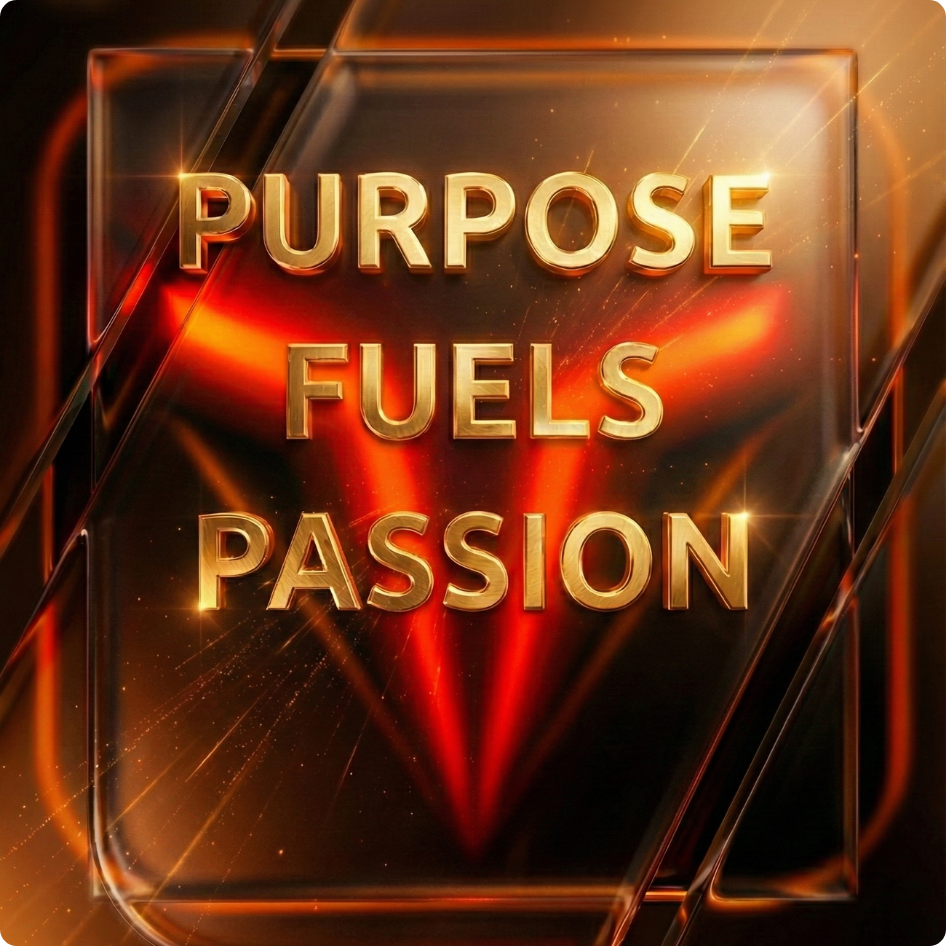
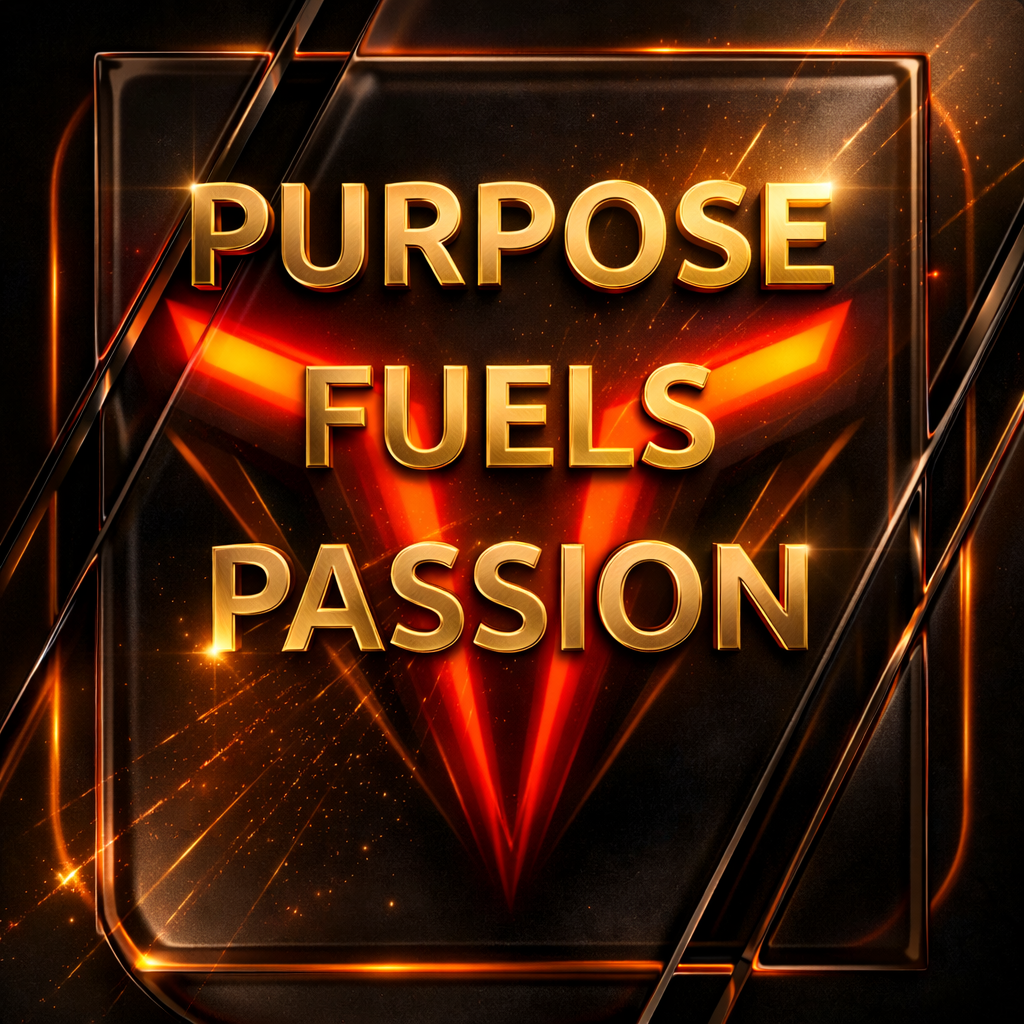
Create link pages for footer links.

diff --git a/src/components/Footer.jsx b/src/components/Footer.jsx
@@ -9,7 +9,6 @@ function Footer() {
           <div className="col-md-3 mb-4">
             <div className="footer-brand">
               <img src="/kalesh_navbar_logo.png" alt="Kalesh Logo" />
-              
             </div>
 
             <button className="coming-soon-btn">Coming Soon</button>
@@ -19,9 +18,15 @@ function Footer() {
           <div className="col-md-3 mb-4">
             <h5 className="footer-title">What We Do</h5>
             <ul className="footer-list">
-              <li>Features</li>
-              <li>Security</li>
-              <li>For Paid Promotion</li>
+              <li>
+                <Link to="/features">Features</Link>
+              </li>
+              <li>
+                <Link to="/security">Security</Link>
+              </li>
+              <li>
+                <Link to="/promotion">For Paid Promotion</Link>
+              </li>
             </ul>
           </div>
 
@@ -29,9 +34,15 @@ function Footer() {
           <div className="col-md-3 mb-4">
             <h5 className="footer-title">Who We Are</h5>
             <ul className="footer-list">
-              <li>About Us</li>
-              <li>Careers</li>
-              <li>Privacy</li>
+              <li>
+                <Link to="/about">About Us</Link>
+              </li>
+              <li>
+                <Link to="/careers">Careers</Link>
+              </li>
+              <li>
+                <Link to="/privacy">Privacy</Link>
+              </li>
             </ul>
           </div>
 
@@ -39,9 +50,15 @@ function Footer() {
           <div className="col-md-3 mb-4">
             <h5 className="footer-title">Need Help</h5>
             <ul className="footer-list">
-              <li>Contact Us</li>
-              <li>Help Center</li>
-              <li>Security Advisory</li>
+              <li>
+                <Link to="/contact">Contact Us</Link>
+              </li>
+              <li>
+                <Link to="/help">Help Center</Link>
+              </li>
+              <li>
+                <Link to="/security-advisory">Security Advisory</Link>
+              </li>
             </ul>
           </div>
         </div>
@@ -57,7 +74,9 @@ function Footer() {
 
               {/* COLUMN 2: TERMS & PRIVACY */}
               <div className="col-md-4 text-center mb-2 mb-md-0">
-                <a href="/privacy">Terms & Privacy Policy</a>
+                <Link to="/terms_conditions">Terms_Conditions</Link>
+                <span className="mx-2">|</span>
+                <Link to="/policy">Policy</Link>
               </div>
 
               {/* COLUMN 3: SOCIAL ICONS */}

diff --git a/src/pages/Careers.jsx b/src/pages/Careers.jsx
@@ -1,40 +1,37 @@
 function Careers() {
   return (
     <div className="container-fluid careers-page px-0">
-
       {/* TOP HEADING */}
       <div className="container text-center py-5">
         <h1 className="careers-title">
-          Build the future at the heart of change at <span>Kalesh.</span>
+          Build the future at the heart of change at <h1><span>Kalesh.</span></h1>
         </h1>
       </div>
 
       {/* CONTENT SECTION */}
       <div className="container py-5">
         <div className="row align-items-center">
-
           {/* LEFT CONTENT */}
-          <div className="col-md-6 mb-4 mb-md-0">
+          <div className="col-md-6 mb-4  mb-md-0 ">
             <h2 className="careers-subtitle">Purposeful</h2>
 
-            <p className="careers-text">
-              Evolving our purpose to meet an enlightened workforce,
-              customers and community.
+            <p className="careers-text mb-5 ">
+              Evolving Our Purpose: We continuously refine our mission to
+              empower an enlightened workforce, engage conscious customers, and
+              build a stronger, more connected community
             </p>
           </div>
 
           {/* RIGHT IMAGE */}
-          <div className="col-md-6 text-center">
+          <div className="col-md-6 text-center mb-5 ">
             <img
-              src="/careers-purpose.jpg"
+              src="/purpose_Fuels_passion_Career.png"
               alt="Purpose fuels passion"
               className="img-fluid careers-image"
             />
           </div>
-
         </div>
       </div>
-
     </div>
   );
 }

diff --git a/src/App.jsx b/src/App.jsx
@@ -1,4 +1,4 @@
-import { Routes, Route } from "react-router-dom";
+import { BrowserRouter as Router, Routes, Route } from "react-router-dom";
 import Navbar from "./components/Navbar";
 import Footer from "./components/Footer";
 
@@ -7,6 +7,8 @@ import About from "./pages/About";
 import Privacy from "./pages/Privacy";
 import Promotions from "./pages/Promotions";
 import Careers from "./pages/Careers";
+import Policy from "./pages/Policy";
+import Terms_Conditions from "./pages/Terms_Conditions";
 
 function App() {
   return (
@@ -21,6 +23,8 @@ function App() {
           <Route path="/privacy" element={<Privacy />} />
           <Route path="/promotions" element={<Promotions />} />
           <Route path="/careers" element={<Careers />} />
+          <Route path="/policy" element={<Policy />} />
+          <Route path="/terms_conditions" element={<Terms_Conditions />} />
         </Routes>
       </main>
 

diff --git a/src/index.css b/src/index.css
@@ -538,20 +538,22 @@ a:hover {
 .careers-subtitle {
   font-size: 36px;
   font-weight: 700;
-  margin-bottom: 16px;
+  margin-bottom: 36px;
 }
 
 .careers-text {
   font-size: 18px;
   color: #b3b3b3;
   max-width: 520px;
+  margin-top: px;
 }
 
 /* IMAGE */
 .careers-image {
   max-width: 420px;
-  border-radius: 8px;
-  box-shadow: 0 0 40px rgba(255, 106, 0, 0.25);
+  
+  border-radius: 18px;
+  box-shadow: 0 0 25px rgba(255, 106, 0, 0.6);
 }
 
 /* MOBILE RESPONSIVE */

diff --git a/src/pages/Terms_Conditions.jsx b/src/pages/Terms_Conditions.jsx
@@ -1,0 +1,9 @@
+function Terms_Conditions() {
+  return (
+    <div className="container py-5 text-light">
+      <h1>Terms_Conditions</h1>
+    </div>
+  );
+}
+
+export default Terms_Conditions;

diff --git a/src/pages/Policy.jsx b/src/pages/Policy.jsx
@@ -1,0 +1,9 @@
+function Policy() {
+  return (
+    <div className="container py-5 text-light">
+      <h1>Privacy Policy</h1>
+    </div>
+  );
+}
+
+export default Policy;
